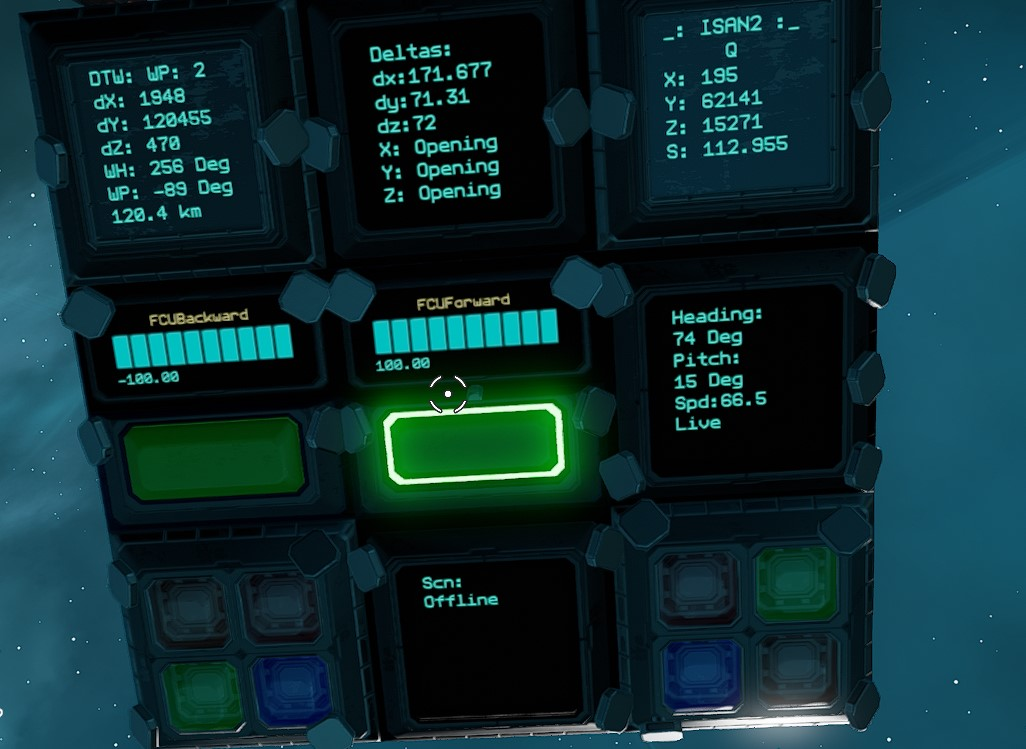
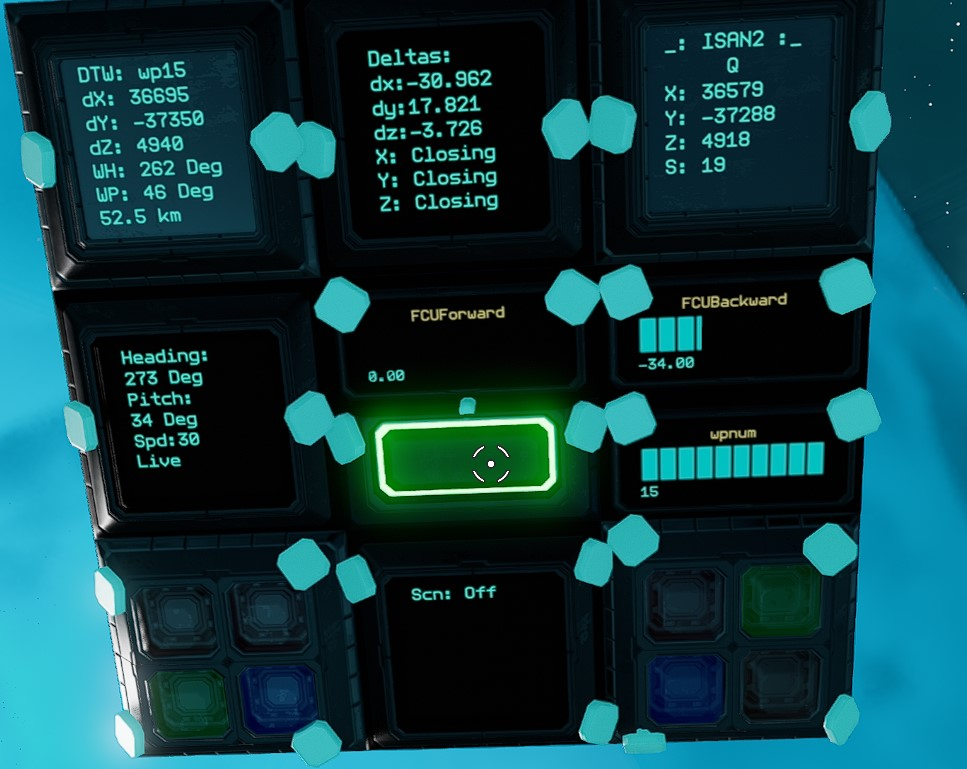
Update to ISAN system

diff --git a/ISAN-Waypoint System/README.md b/ISAN-Waypoint System/README.md
@@ -1,12 +1,13 @@
-Version 3.5 - ISAN + Waypoint + Ship and Waypoint Heading - Updated to ISAN 2.5
+Version 4.0 - ISAN 2.5 + 15 Waypoint System + Ship and Waypoint Heading - Now with Waypoint name parsing and hold increment/decrement to advance fast.
 ![Full-System](images/FullSystem.jpg)
 
-## Added :spd variable to support speed being displayed in multiple places. Added support note for Streamers to obfuscate their location some and still use system.
+## Added ability to store names with the wp strings
+### To name a waypoint, on the memory chip after its saved, add the name to the front of the string up to 6 characters, i.e. "home -1943 61723 14740"  If no name is present it will just use WP# as the name.
 
 This is the ISAN system from the Collective. 
 ![Coordinates](images/Coordinates.jpg)
 
-It has been modified to work with my waypoint system and adding in heading and pitch for both ship and to waypoint.  The system will store up to 16 waypoints, cycle up and down (wrapping at the ends) and has an overwrite and home feature (goes to wp1).
+It has been modified to work with my waypoint system and adding in heading and pitch for both ship and to waypoint.  The system will store up to 15 waypoints, cycle up and down (wrapping at the ends) and has an overwrite and home feature (goes to wp1).
 
 "Pitch is your "vertical" angle from the Z axis with 0 being flat along the plane of the belt, and -90 and 90 being perpendicular.
 Heading is your "horizontal" angle from the Z axis with 0 being along it pointing into the belt, 90 being along the X axis pointing "left" along the belt, and it wrapping back around to 360 pointing back into the belt"
@@ -23,30 +24,31 @@ You can install all or part of this system. These instructions assume you are in
 * 3 YOLOL Memory Chips - One for storing `X`, `Y`, `Z` and current WP's `wX`, `wY`, `wZ`, current `wpnum`, and `spd`.  One for storing up to 10 waypoints. One for storing another 6 waypoints and variables needed for heading and pitch
 * 4 Warning Buttons - Used for WP Increment, WP Decrement, WP Save, and WP Home Select. - IF YOU USE OTHER BUTTONS, the variable `wpb` must be on some device or memory chip.
 * 4 24x24 Text Screens - One for ISAN, one for current deltas (OPTIONAL), one for Waypoint Info, one for Ship's heading, pitch, and speed.
-* 1 progress bar (OPTIONAL) - Used to display current WP by the selectors.
+* 1 progress bar (Recommended) - Used to display current WP by the selectors. If not present and you hold inc or dec too long, you might skip over wp number.
 
 #### Setup Instructions - Note: `wpb` is a critical field.  If you do not use warning buttons, you must create this field in memory chip 1.
 1. Install all chips for desired level of system.  Be sure to bolt them in where appropriate.  Remember Memory chips only go in one way and can vanish if not inserted properly.  Recommend inserting memory chip, then yaw slightly on ship, see if its still in place.
 2. Memory Chip 1.  On the chip, set the following fields: `X`, `Y`, `Z` to 0, `wx`, `wy`, `wz` to 1000, `wpc` to `"1000 1000 1000"` (quotes included), `wpnum` to 1, `spd` to 0. If not using warning buttons (see below) put `wpb` on this chip set to 0.  ![MEMORY-CHIP1](images/MemChip1.jpg)
 3. Install Memory Chip 2.  On the chip, set the fields to: `wp1` to `wp10`.  Set the values to `"1000 1000 1000"` (quotes included) unless you have specific waypoints you want to put in. ![MEMORY-CHIP2](images/MemChip2.jpg)
-4. Install Memory Chip 3.  On it set fields `i`, `j`, `k` to 0, set fields `wp11` to `wp16` to `"1000 1000 1000"` (quotes included). ![MEMORY-CHIP3](images/MemChip3.jpg)
+4. Install Memory Chip 3.  On it set fields `i`, `j`, `k` to 0, set fields `wp11` to `wp15` to `"1000 1000 1000"` (quotes included). ![MEMORY-CHIP3](images/MemChip3.jpg)
 5. Install the modified ISAN.yolol from here on an Advanced Chip.  Set up the receivers fields and data screen name (`_`) per https://isan.to/isan.pdf. The Waypoint system doesnt care if you are mono or quad mode.  If quad mode, you can set pr=0 in the script to turn off precision.  The isan.yolol in this folder is modified, do not use the vanilla version. (Display and Reciever fields should be updated as shown in the PDF) ![ISAN-SCREEN](images/ISANScreen.jpg)
 6. (OPTIONAL) Install Deltas.yolol on basic chip.  On a Text Screen, rename PanelValue field name to `Deltas`.  When moving, this will show your current delta X, Y and Z along with OPENING or CLOSING in reference to X, Y and Z to selected Waypoint.![DELTAS-SCREEN](images/DeltaScreen.jpg)
 7. Install WPDTW.yolol on an advanced chip.  On a text screen, rename PanelValue field name to `DTW`.  This will display Waypoint Number, Distance, WP Heading and WP Pitch, and delta X, Y, Z to it. ![DTW-SCREEN](images/DTWScreen.jpg)  
 8. Install ShipHeading.yolol on the third advanced chip.  On another text screen, renamed PanelValuye field to `Heading`  ![HEADING](images/Heading.jpg)
-9. Install WPIncrement.yolol on an basic chip. Install 4 warning buttons. Rename ButtonState field names to `wpi`, `wpd`, `wps`, `wph`.  (Increment, Decrement, Save, Home).  Rename all ButtonEnableBlink fields to `wpb`.  ButtonStyle should be 1.  ButtonColor is user preference, I use Red(0) for decrement, Green(2) for increment, Blue(3) for Save, and Orange(1) for Home. ![WP-Buttons](images/WPInc-DecButtons.jpg)  Note: `wpb` is a critical field.  If you do not use warning buttons, you must create this field in memory chip 1.
-10. (OPTIONAL) Install progress bar near warning buttons if needed to show currently selected waypoint. Name PanelValue to `wpnum`.  Minvalue 0, maxvalue 16.
-11. (OPTIONAL) You can put SPD on any display you want to display just speed.  Currently displayed on ISAN panel and on Ships Heading panel.
-12. (STREAMERS) You can put `_` on a memory chip or other non-display device and the entire system will work without the ISAN text display. THen you change the ISAN display from `_` to `Hello Snipers` or whatever. You can add `_` back to the ISAN text display when its ok for others to see your coordinates.
+9. Install WPIncrement.yolol on an basic chip. 
+10. Install 4 warning buttons. Rename ButtonState field names to `wpi`, `wpd`, `wps`, `wph`.  (Increment, Decrement, Save, Home).  Rename all ButtonEnableBlink fields to `wpb`.  ButtonStyle should be 0.  ButtonColor is user preference, I use Red(0) for decrement, Green(2) for increment, Blue(3) for Save, and Orange(1) for Home. ![WP-Buttons](images/WPInc-DecButtons.jpg)  Note: `wpb` is a critical field.  If you do not use warning buttons, you must create this field in memory chip 1.
+11. (Recommended) Install progress bar near warning buttons if needed to show currently selected waypoint. Name PanelValue to `wpnum`.  Minvalue 0, maxvalue 15. This
+12. (OPTIONAL) You can put SPD on any extra display you want to display just speed.  Currently displayed on ISAN panel and on Ships Heading panel.
+13. (STREAMERS) You can put `_` on a memory chip or other non-display device and the entire system will work without the ISAN text display. THen you change the ISAN display from `_` to `Hello Snipers` or whatever. You can add `_` back to the ISAN text display when its ok for others to see your coordinates.
 
 #### Usage Instructions - Note, if WPDTW.yolol is stuck on line 3, change the goto at the end to goto1 then back to goto3+c<0
-1. During normal flight, the ISAN screen will show you current X, Y and Z and Speed.  The Deltas screen will show you your current X, Y and Z deltas based on current flight direction and speed along with XYZ OPENING or CLOSING to your current selected waypoint, IF MOVING. The DTW screen will show currently selected waypoint, distance to it, the WP Heading and Pitch to it, and delta X, Y and Z to it.  The Heading screen will show heading and pitch.  If it says Live at bottom, its updating, if it says Last Known, you are not moving so its the last reading it calculated.  Ships heading is stable AFTER flying in a straight line for a bit.
+1. During normal flight, the ISAN screen will show you current X, Y and Z and Speed.  The Deltas screen will show you your current X, Y and Z deltas based on current flight direction and speed along with XYZ OPENING or CLOSING to your current selected waypoint, IF MOVING. The DTW screen will show currently selected waypoint, distance to it, the WP Heading and Pitch to it, and delta X, Y and Z to it.  The Heading screen will show heading, pitch and speed.  If it says Live at bottom, its updating, if it says Last Known, you are not moving so its the last reading it calculated.  Ships heading is stable AFTER flying in a straight line for a bit.
 2. To fly to your waypoint: (recommend using combo of both methods)
-    1. Method1: Use delta X/Y/Z shown on DTW screen and Deltas screen.  If DTW says you are dx: -500 then you would want the dx on the deltas screen to say a positive number.  Also if all 3 fields say CLOSING you are going in right general direction, but note the magnitudes of the deltas.  NOTE: This is the most accurate since if it says you are 500x off, you are 500x off.
-    1. Method2: Use the WH and WP shown on the DTW screen.  Start flying VERY slowly (just need relative motion) till your Ships heading stops jumping around.  Then yaw till heading is close to WP Heading, then pitch till your ships pitch is close to WP Pitch.  Then you can accelerate to full speed.  Note:  These numbers do sometimes radically shift for a second due to transponder issues, fps issues, lag, etc.  Use the stable values.  I have twiced tested turning off station markets and flying back to my Origin from 40k in belt in fog with no idea which way to go first. Both times it got me home.
-##### IMPORTANT: When using the Waypoint buttons, press them one time, wait for blinking to stop before pressing another.  DTW display will show PARSING WAYPIONT while its changing over.
-3. To raise or lower current waypoint, press the Increment or Decrement warning button.  It wraps from 16 to 1 and 1 to 16.  Wait for blinking to stop and it's set.
-4. To overwrite current waypoint, press the Save warning button.  You will get the same blinking and PARSING message.
+    1. Method1: Use delta X/Y/Z shown on DTW screen and Deltas screen.  If DTW says you are dx: -500 then you would want the dx on the deltas screen to say a positive number.  Also if all 3 fields on the Deltas screen say CLOSING you are going in right general direction, but note the magnitudes of the deltas.  NOTE: This is the most accurate since if it says you are 500 off in X direction, you are 500 off. 
+    1. Method2: Use the WH and WP shown on the DTW screen.  Start flying VERY slowly (just need relative motion) till your Ships heading stops jumping around (Transmitter related, not ISAN or waypoint code).  Then yaw till heading on Ships Heading display is close to WP Heading on DTW display. Then pitch till your ships pitch is close to WP Pitch.  Then you can accelerate to full speed.  Note:  These numbers do sometimes radically shift for a second due to transponder issues, fps issues, lag, etc.  Use the stable values.  I have twiced tested turning off station markets and flying back to my Origin from 40k in belt in fog with no idea which way to go first. Both times it got me home just fine.
+##### IMPORTANT: When using the Waypoint buttons, tap them to increment up or down by 1, hold to speed through waypoints. Release button and wait for blinking to stop before pressing another.  DTW display will show PARSING WAYPIONT while its changing over.
+3. To raise or lower current waypoint, tap the Increment or Decrement warning button to change by 1, or hold to change fast to another number.  It wraps from 15 to 1 and 1 to 15.  Decrement button will blink after release of buttons to indicate parsing. Wait for blinking to stop and it's set.
+4. To overwrite current waypoint, press the Save warning button.  You will get the same blinking and PARSING message.  After it saves, you can add a name to the waypoint at the front up to six characters, i.e. "Home -1943 61723 14740"
 5. To go to waypoint 1 press the Home warning button. (Saves time if you are on 5 for example).  Waypoint 1 is always considered home.
 
 IF SOMETHING ISN'T WORKING - Recommend putting chips on a socket or chip reader insert so you can watch them run live and see where they are getting stuck, this will let me give better tech support.
